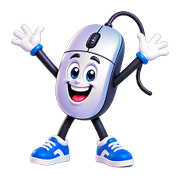
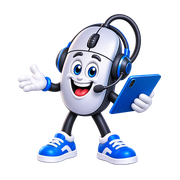
Nouvelle mascotte et icônes propres à l'application
Image fournie par la direction : remplace la mascotte générique
(connexion, contact, mot de passe oublié, onglet central) et les icônes
(PWA 192/512, apple-icon, favicon). Accessoire animé de la page de
connexion retiré : l'image porte déjà le thème de l'app.

Changed region(s): [[0.0556, 0.0556, 0.9444, 0.9444]]

diff --git a/src/components/auth/kit/themeAuth.ts b/src/components/auth/kit/themeAuth.ts
@@ -47,7 +47,7 @@ export const THEME_AUTH: ThemeAuth = {
   "accentOmbre": "rgba(59,91,255,0.4)",
   "decor": "etincelles",
   "posture": "flotte",
-  "accessoire": "etoile",
+  "accessoire": "aucun",
   "confettis": [
     "#3b5bff",
     "#00b4ff",
